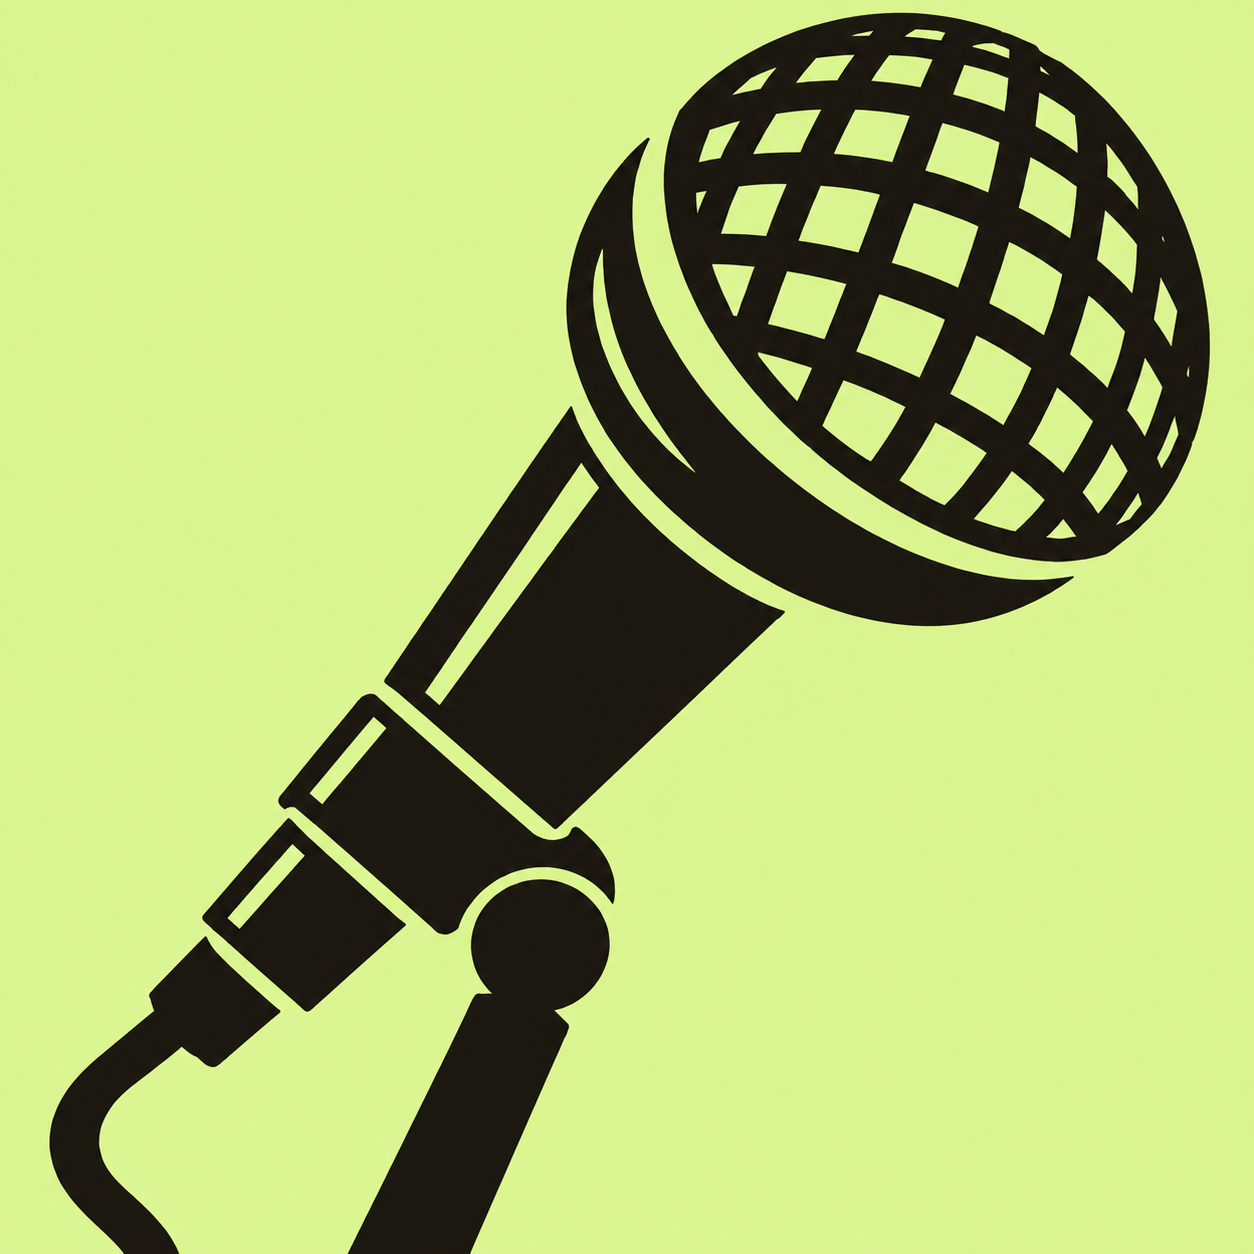
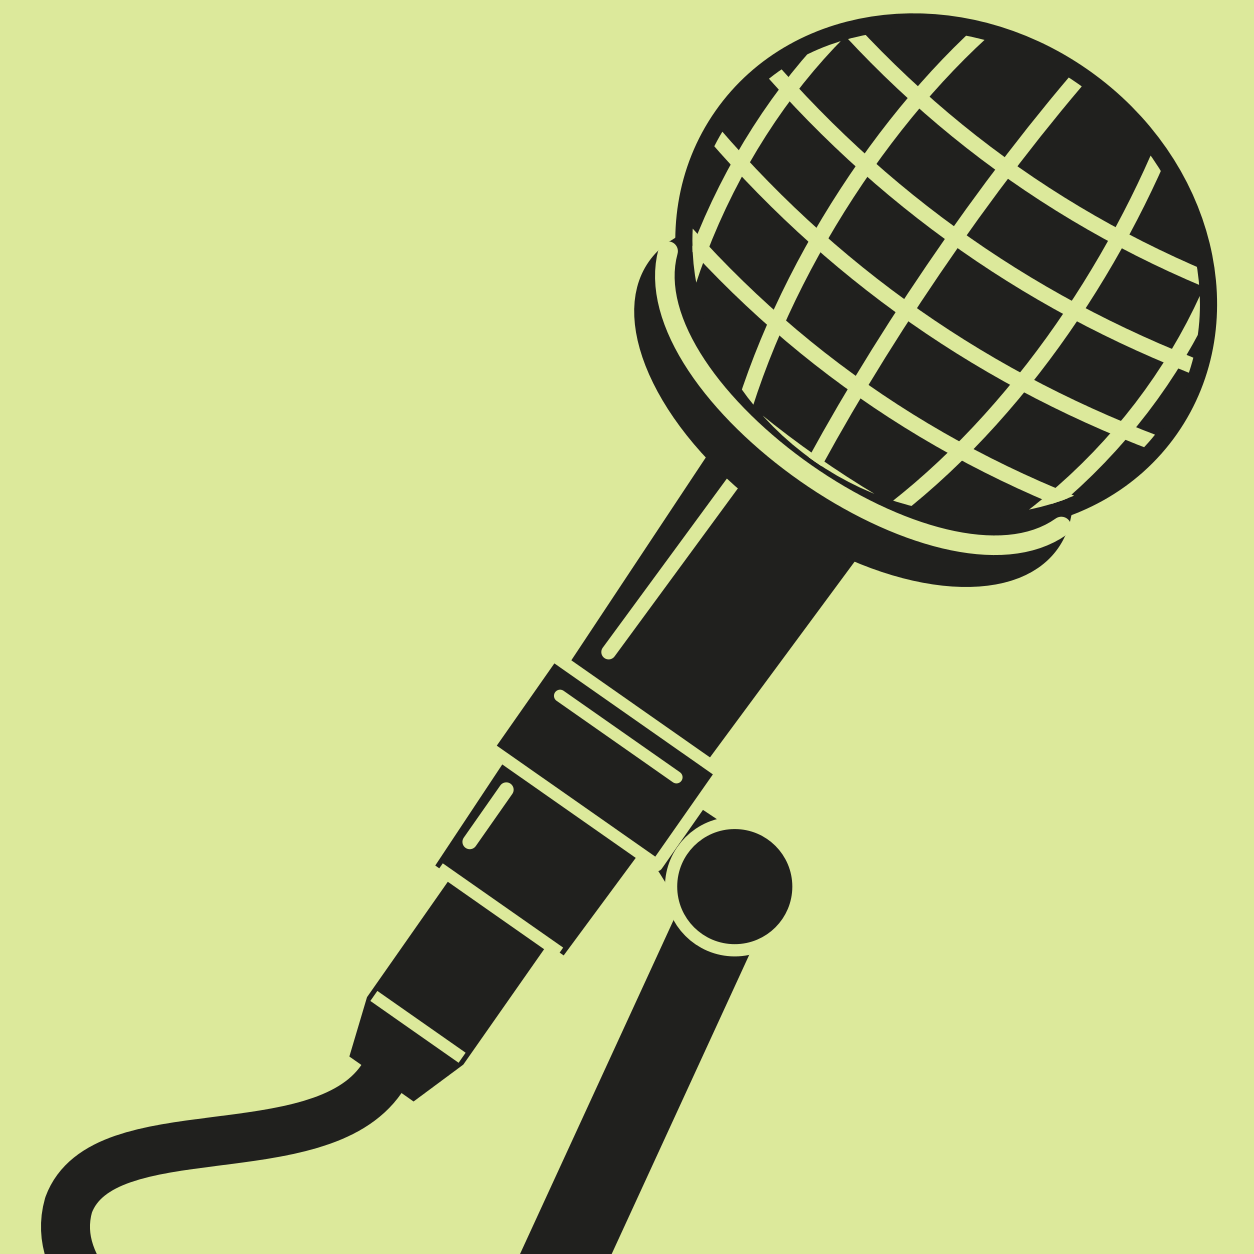
Draw the microphone and plug on one vector axis
Replace the generated raster geometry with an editable SVG whose mic body, grille, and plug share local x=0 and a single projection transform. Preserve the compact clip, angled upper stand, loose cable, and coarse grille while making the rigid assembly mathematically straight.

Export the SVG to the existing PNG asset, refresh icon URLs, and update provenance records to describe the new vector source. Verified shared-axis collinearity and visually checked the app header and 16px, 32px, 64px, and 128px previews. Keep this change local without publishing a release.

Changed region(s): [[0.0311, 0.0, 0.9952, 1.0]]

diff --git a/index.html b/index.html
@@ -1,8 +1,8 @@
 <!doctype html>
 <html lang="en">
-<head><meta charset="utf-8"><meta name="viewport" content="width=device-width, initial-scale=1"><title>Hecklarr</title><link rel="icon" type="image/png" href="/icon.png?v=3"><link rel="apple-touch-icon" href="/icon.png?v=3"><link rel="stylesheet" href="/style.css"><script src="/app.js" defer></script></head>
+<head><meta charset="utf-8"><meta name="viewport" content="width=device-width, initial-scale=1"><title>Hecklarr</title><link rel="icon" type="image/png" href="/icon.png?v=4"><link rel="apple-touch-icon" href="/icon.png?v=4"><link rel="stylesheet" href="/style.css"><script src="/app.js" defer></script></head>
 <body>
-<header><div class="header-inner"><div class="brand"><img class="mark" src="/icon.png?v=3" alt="" width="42" height="42"><div><strong>Hecklarr</strong><small>Your stand-up watchlist</small></div></div><button id="logout" class="quiet" hidden>Log out</button></div></header>
+<header><div class="header-inner"><div class="brand"><img class="mark" src="/icon.png?v=4" alt="" width="42" height="42"><div><strong>Hecklarr</strong><small>Your stand-up watchlist</small></div></div><button id="logout" class="quiet" hidden>Log out</button></div></header>
 <main>
 <section id="setup" class="card narrow" hidden><h2>Welcome to Hecklarr.</h2><p>Create your account to get started.</p><form id="setup-form"><label>Username<input name="username" autocomplete="username" maxlength="80" required></label><label>Password<input name="password" type="password" autocomplete="new-password" minlength="8" required></label><label>Confirm password<input name="passwordConfirmation" type="password" autocomplete="new-password" minlength="8" required></label><button>Create account</button></form></section>
 <section id="login" class="card narrow" hidden><h2>Sign in to Hecklarr</h2><form id="login-form"><label>Username<input name="username" autocomplete="username" required></label><label>Password<input name="password" type="password" autocomplete="current-password" required></label><button>Log in</button></form></section>

diff --git a/icon-prompts.md b/icon-prompts.md
@@ -1,5 +1,7 @@
 # Hecklarr icon
 
+The current icon is the geometric drawing in `icon.svg`, exported to `icon.png`. The image-generation prompts below document earlier raster versions.
+
 Generated with the built-in image generation tool. The final project asset is `icon.png` in this directory. The initial image was refined once to remove blotches from its background.
 
 ## Initial generation prompt
@@ -26,9 +28,9 @@ The close-up icon was revised with the built-in image generation tool to attach 
 
 Use case: precise-object-edit. Edit target: the supplied Hecklarr icon. Change only the microphone cable: show it plugged visibly into the base of the microphone handle, hanging in a wide, natural gravity-led loop beside the stand, then trailing out through the bottom edge. Preserve the microphone, clip, crop, jaunty angle, stand, exact flat pale-lime background, materials, lighting, and composition. No extra objects or text.
 
-## Current ink-drawn revision — October 15, 2026
+## Previous ink-drawn raster revision — October 15, 2026
 
-The active asset replaces the glossy rendering with a simpler charcoal ink drawing. The microphone faces slightly toward the viewer; both the mic and the visible upper stand lean, and the composition fills the square. The grille uses coarse marks that remain readable at small sizes. The connector follows the microphone's axis and the clip grips a short section of the handle.
+This raster revision replaced the glossy rendering with a simpler charcoal ink drawing. The microphone faces slightly toward the viewer; both the mic and the visible upper stand lean, and the composition fills the square. The grille uses coarse marks that remain readable at small sizes. The connector follows the microphone's axis and the clip grips a short section of the handle.
 
 The built-in image-generation tool produced a new drawing using three user-supplied references (a stage photograph, a line drawing, and a comedy poster) plus a real microphone assembly photograph from [Gator's microphone-clip product listing](https://goknight.com/gator-gfw-mic-clip-standard-microphone-clip/). These references guided pose, hardware anatomy, and ink style. No reference photographs are included in the repository. Intermediate edits adjusted perspective, detail density, and pose before the final framing pass below. The existing generated icon served as the starting point for early discarded drafts.
 
@@ -36,8 +38,23 @@ The built-in image-generation tool produced a new drawing using three user-suppl
 
 Edit this icon, preserving the approved drawing style, coarse grille detail, toward-viewer mic pose and aligned mic/plug geometry. Two layout changes only. FIRST, the visible stand shaft must also lean: angle the straight stand shaft about 25 degrees to the RIGHT FROM VERTICAL, so its lower end enters through the bottom edge LEFT of its pivot. It is NOT a vertical pole. Keep the upper shaft visibly connected to the existing round pivot beneath the compact clip; the shaft stays straight. SECOND, tighten the composition significantly. Enlarge and reframe the whole assembly roughly 20 to 25 percent so it FILLS THE SQUARE: the large near-facing microphone grille reaches close to the TOP AND RIGHT edges with only about 2 to 3 percent breathing room; the handle and straight plug stretch toward the lower-left; the relaxed cable curve reaches near the LEFT edge and exits at the bottom; the angled upper stand exits the bottom near the middle-left. Avoid the large empty margins of the reference. Show only the upper stand, no base. Keep the entire mic grille and cord connection visible. Preserve the steep jaunty mic angle, small clip, simple hand-cut charcoal forms, coarse crosshatch grille, pale lime background, no extra detail or text.
 
-The final PNG is copied unchanged from the tool output, retaining its embedded provenance metadata. Header, favicon, and Apple touch-icon references share this asset.
+That raster PNG was copied unchanged from the tool output, retaining its embedded provenance metadata. Header, favicon, and Apple touch-icon references share this asset.
 
 ### Final rigid-body refinement prompt
 
 Make a restrained correction to this nearly finished Hecklarr icon: the hardware looks slightly too bendy. Keep the composition, scale, mic direction toward the viewer, steep mic angle, angled stand, coarse grille and colors exactly as they are. Straighten the RIGID PARTS. The microphone handle has crisp straight longitudinal edges with only a slight linear taper, no bowed or bulging sides. Its rear connector is a short straight cylinder on the identical centerline, with straight sides. Make the compact clip a short firm sleeve/cradle, removing the exaggerated wavy hooked lip; do not extend it along the microphone. The stand shaft below the round pivot must be a perfectly straight rigid rod with parallel sides, preserving its existing diagonal angle, with no soft curved neck. Keep the grille rounded as appropriate. ONLY the flexible cable bends and hangs loosely. Preserve the bold slightly imperfect hand-inked edge character, but rigid objects should have straight geometry, not wavy rubbery forms. Do not add detail, change the pose, shrink the subject, or introduce text, shine, shadows, or extra objects.
+
+
+## Geometric vector replacement — October 15, 2026
+
+Repeated image-generation edits did not enforce the mic/plug alignment. The current icon is drawn directly in `icon.svg` instead. Mic-body and plug cross-sections are centered at local x=0 within one group, `translate(188 63) rotate(35)`. The centerline remains a single straight line after projection. The rounded grille shares that axis; the clip, angled stand, and flexible cable are separate shapes.
+
+The PNG is rendered from this SVG using Sharp's SVG renderer. No Sharp package is required by the running application. To regenerate with Sharp available in Node's module path:
+
+```js
+const fs = require('node:fs');
+const sharp = require('sharp');
+await sharp(fs.readFileSync('icon.svg')).removeAlpha().png().toFile('icon.png');
+```
+
+This step uses code-defined vector geometry rather than another image-generation prompt. The app and browser icon continue using the PNG export.

diff --git a/THIRD_PARTY_NOTICES.md b/THIRD_PARTY_NOTICES.md
@@ -20,13 +20,16 @@ This application uses TMDB and the TMDB APIs but is not endorsed, certified, or 
 
 ## Hecklarr icon
 
-`icon.png` was generated and revised with OpenAI's image-generation tool for this project. The prompts and revisions are recorded in [icon-prompts.md](icon-prompts.md). The current ink-drawing revision used user-supplied visual references and a [Gator microphone-clip product photograph](https://goknight.com/gator-gfw-mic-clip-standard-microphone-clip/) to guide hardware anatomy. Those reference images are not bundled with the application; no performer likeness or product branding appears in the icon.
+The current `icon.svg` is a project-authored vector drawing assembled with AI coding assistance. Its microphone and cable plug share one local centerline and one projection transform. `icon.png` is the opaque raster export used by the app, README, and browser icon.
 
[1 lines of base64/hex data omitted]
-- Format: 1254 × 1254 RGB PNG.
-- The image retains its embedded generation-provenance metadata.
+Earlier raster versions were generated with OpenAI's image-generation tool. Their prompts and visual-reference history are recorded in [icon-prompts.md](icon-prompts.md). The current vector retains the microphone concept and palette, but is drawn from SVG geometry; no photograph pixels or product branding are bundled with it.
 
-AI generation does not establish exclusivity or trademark clearance. The icon has not undergone a visual-similarity or trademark search.
[1 lines of base64/hex data omitted]
+- PNG format: 1254 × 1254 RGB.
+- SVG source: `icon.svg`.
+- The vector export replaces the earlier generated PNG and does not retain that earlier image's generation-provenance metadata.
+
+AI assistance does not establish exclusivity or trademark clearance. The icon has not undergone a visual-similarity or trademark search.
 
 ## Container runtime
 
